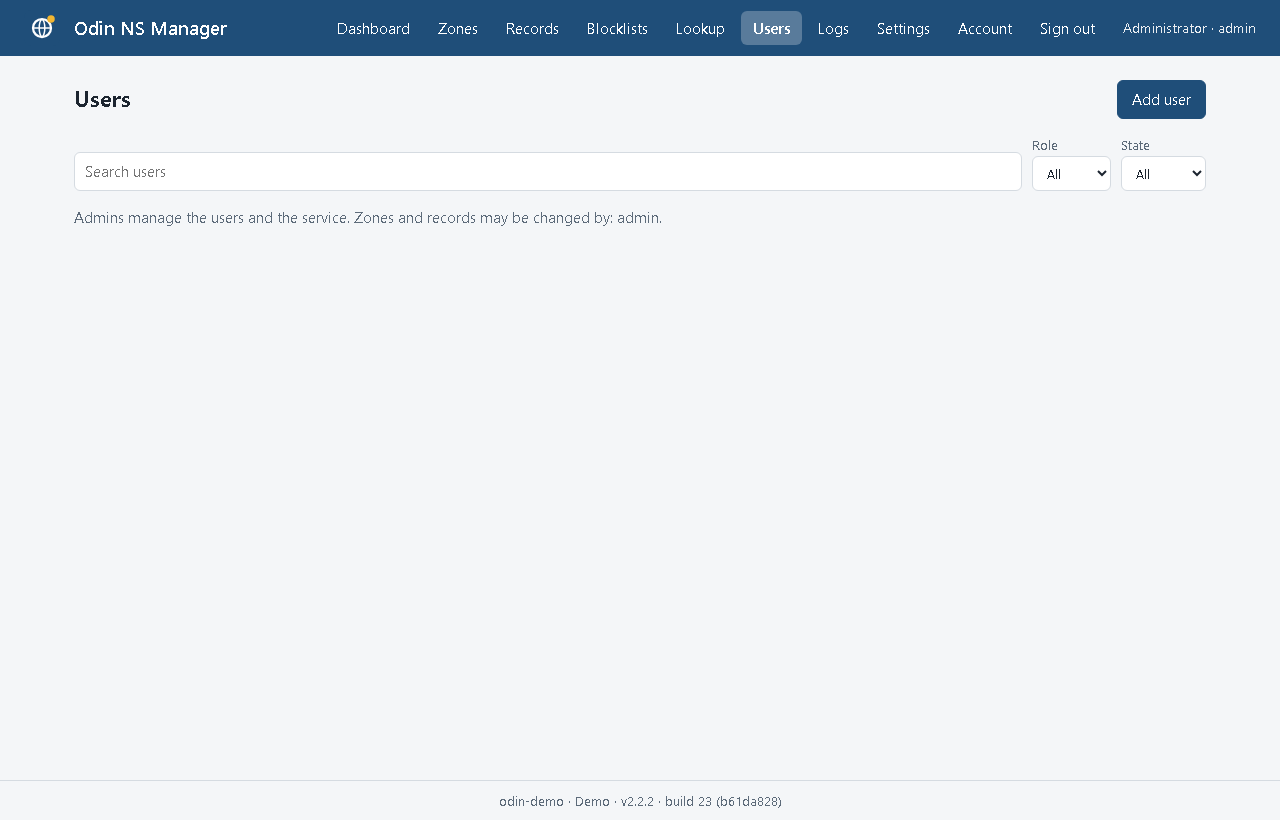
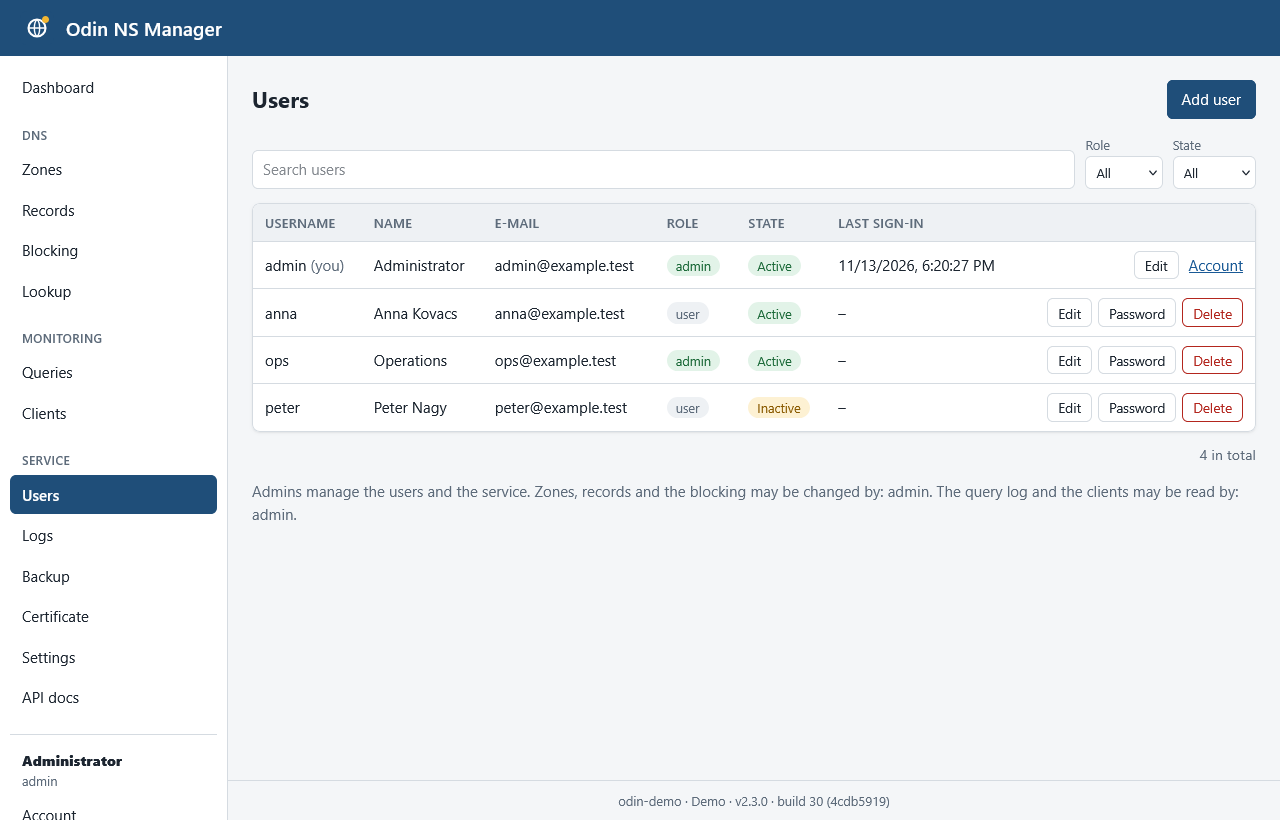
Release 2.3.0: screenshots of the release
New screenshots of every page, taken of version 2.3.0: the new menu, the
Blocking, Queries, Clients and Backup pages, the most asked names on the
dashboard, a lookup that is validated with DNSSEC, the dark mode, and the
menu and the tables on a phone. The README shows them in its sections and
in the table of the screenshots.

The version is 2.3.0 since the changes of this release were made.

diff --git a/README.md b/README.md
@@ -363,6 +363,8 @@ The lists and the rules are changed by the roles in `ODIN_DNS_WRITE_ROLES`.
 The server downloads whatever address it is given: leave those roles to the
 people who are trusted with that. A download is limited to 64 MB.
 
+![The blocking: its switch, the block lists and the rules](docs/screenshots/blocking.png)
+
 ### Monitoring
 
 The DNS server reports every query it answered to the monitoring of
@@ -381,6 +383,8 @@ The queries show what every client looks up, so the monitoring can only be
 read by the roles in `ODIN_MONITORING_ROLES`. `ODIN_NS_QUERY_LOG_ENABLED=false`
 switches the recording off; `ODIN_QUERY_LOG_RETENTION_DAYS` and
 `ODIN_METRICS_RETENTION_DAYS` say how long the data is kept.
+
+![The query log](docs/screenshots/queries.png)
 
 ### DNSSEC
 
@@ -403,6 +407,8 @@ on. It is off by default.
 The dashboard counts the checked lookups, and the Lookup page shows what
 DNSSEC said about a name. The `validate` mode needs a correct system clock,
 and an upstream that hands over the DNSSEC records, which nearly all do.
+
+![Lookup of a signed name: DNSSEC signed and valid](docs/screenshots/lookup-dnssec.png)
 
 ### Forwarding
 
@@ -454,6 +460,11 @@ The menu is a sidebar next to the content. On a screen that is narrower than
 phone the rows of the tables are shown as blocks, so nothing has to be scrolled
 sideways.
 
+| | | |
+| --- | --- | --- |
+| ![The dashboard on a phone](docs/screenshots/mobile-dashboard.png) | ![The menu on a phone](docs/screenshots/mobile-menu.png) | ![The records of a zone on a phone](docs/screenshots/mobile-records.png) |
+| **Dashboard** on a phone | **The menu**, opened with the button of the header | **A table**: every row is a block |
+
 | Page | Who | What it does |
 | --- | --- | --- |
 | Dashboard | signed in | Graphs of the queries per minute, the answer time, the memory and the cache, over the last 15 minutes to 24 hours; and the state of the service, the DNS server, the zones and the upstream servers. Admins can reload the zones and clear the cache |
@@ -483,21 +494,26 @@ restart. Every graph has its values as a table below it.
 
 ### Screenshots
 
-The screenshots are of a demo installation with sample zones and records, and generated queries. They were taken with version 2.2.2: the menu and the Blocking page have changed since.
+The screenshots are of a demo installation with sample zones and records, the block lists of StevenBlack and AdAway, and generated queries.
 
 | | |
 | --- | --- |
 | ![Sign in](docs/screenshots/login.png) **Sign in** | ![Dashboard](docs/screenshots/dashboard.png) **Dashboard**: figures and graphs of the chosen period |
-| ![The values of a graph](docs/screenshots/dashboard-graph.png) **A graph**: the values at the pointer, and all of them as a table | ![The state of the service](docs/screenshots/dashboard-state.png) **Dashboard**, further down: the state of the service, with its build |
-| ![Zones](docs/screenshots/zones.png) **Zones** | ![The records of a zone](docs/screenshots/zone-records.png) **The records of a zone** |
-| ![Adding a record](docs/screenshots/add-record.png) **Adding a record**: the fields follow the type | ![A record that is not valid](docs/screenshots/record-validation.png) **A value that is not valid** is marked at its field |
-| ![The record is added](docs/screenshots/record-added.png) **Saved**: the serial of the zone is raised | ![Lookup](docs/screenshots/lookup.png) **Lookup**, answered from an own zone |
+| ![The values of a graph](docs/screenshots/dashboard-graph.png) **A graph**: the values at the pointer, and all of them as a table | ![The most asked names](docs/screenshots/dashboard-top.png) **Dashboard**, further down: the last 24 hours, the most asked and most blocked names, the busiest clients |
+| ![The state of the service](docs/screenshots/dashboard-state.png) **Dashboard**, at the end: the state of the service, with its build | ![Zones](docs/screenshots/zones.png) **Zones** |
+| ![The records of a zone](docs/screenshots/zone-records.png) **The records of a zone** | ![Adding a record](docs/screenshots/add-record.png) **Adding a record**: the fields follow the type |
+| ![A record that is not valid](docs/screenshots/record-validation.png) **A value that is not valid** is marked at its field | ![The record is added](docs/screenshots/record-added.png) **Saved**: the serial of the zone is raised |
 | ![Standalone records](docs/screenshots/records.png) **Records**: the standalone records, without a zone | ![Adding a standalone record](docs/screenshots/add-standalone-record.png) **Adding a standalone record**, with its whole name |
-| ![Blocklists](docs/screenshots/blocklists.png) **Blocklists**, with the allowed names | ![Adding a blocklist](docs/screenshots/add-blocklist.png) **Adding a blocklist** by its address |
-| ![Lookup of a blocked name](docs/screenshots/lookup-blocked.png) **Lookup** of a name that is blocked | ![Settings](docs/screenshots/settings.png) **Settings**: where a value comes from, and when a change applies |
+| ![Blocking](docs/screenshots/blocking.png) **Blocking**: the switch, the answer and the block lists | ![Adding a block list](docs/screenshots/add-blocklist.png) **Adding a block list** by its address |
+| ![The check of a domain](docs/screenshots/blocking-check.png) **Is a domain blocked?** The answer, and what decides it | ![The rules](docs/screenshots/blocking-rules.png) **Rules**: domains blocked or allowed by hand |
+| ![Adding a rule](docs/screenshots/add-rule.png) **Adding a rule**, for a domain and the names below it | ![Lookup](docs/screenshots/lookup.png) **Lookup**, answered from an own zone |
+| ![Lookup of a blocked name](docs/screenshots/lookup-blocked.png) **Lookup** of a name that is blocked | ![Lookup with DNSSEC](docs/screenshots/lookup-dnssec.png) **Lookup** of a signed name, validated with DNSSEC |
+| ![Queries](docs/screenshots/queries.png) **Queries**: the query log, with a button to block or allow a name | ![Clients](docs/screenshots/clients.png) **Clients**, with the names they were given |
+| ![Backup](docs/screenshots/backup.png) **Backup**: export and import | ![Settings](docs/screenshots/settings.png) **Settings**: where a value comes from, and when a change applies |
 | ![Editing settings](docs/screenshots/settings-edit.png) **Editing the settings** of a group | ![Users](docs/screenshots/users.png) **Users** |
 | ![Account](docs/screenshots/account.png) **Account**: the profile and the password of the signed-in user | ![Logs](docs/screenshots/logs.png) **Logs** |
 | ![Dark mode](docs/screenshots/zones-dark.png) **Dark mode** | ![The dashboard in dark mode](docs/screenshots/dashboard-dark.png) **Dashboard** in dark mode |
+| ![The blocking in dark mode](docs/screenshots/blocking-dark.png) **Blocking** in dark mode | ![The query log on a phone](docs/screenshots/mobile-queries.png) **On a phone**: the query log |
 
 ## Management API
 
@@ -621,6 +637,7 @@ brought to use.
 - **HTTPS with Let's Encrypt**, certificates that are replaced without a
   restart, and a Certificate page. See [HTTPS](#https).
 - **Swagger UI** of the API at `/api/docs`, linked from the menu.
+- **New screenshots** of every page, in the light and the dark mode and on a phone.
 - **Installers** for Debian, Ubuntu, Raspberry Pi OS, CentOS, Alpine and
   Windows, which also update and uninstall the service. See
   [Installing as a service](#installing-as-a-service).
@@ -669,7 +686,6 @@ brought to use.
 - Zone transfers (AXFR) are refused, and responses have no authority section.
 - A name that is an alias (CNAME) of a blocked name is not blocked.
 - DNSSEC is checked for A and AAAA only, and the own answers are not signed.
-- The screenshots above still show version 2.2.2.
 
 ### 2.2.2
 
